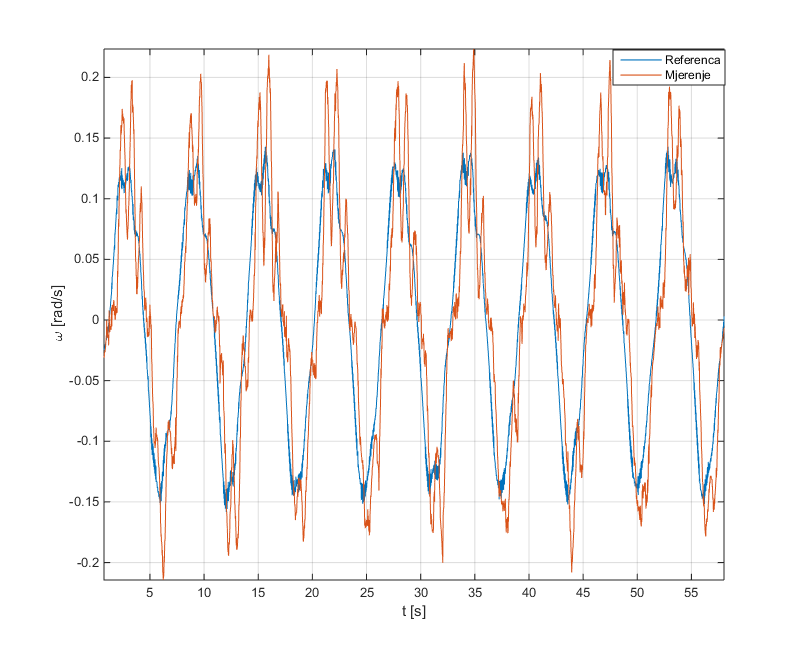
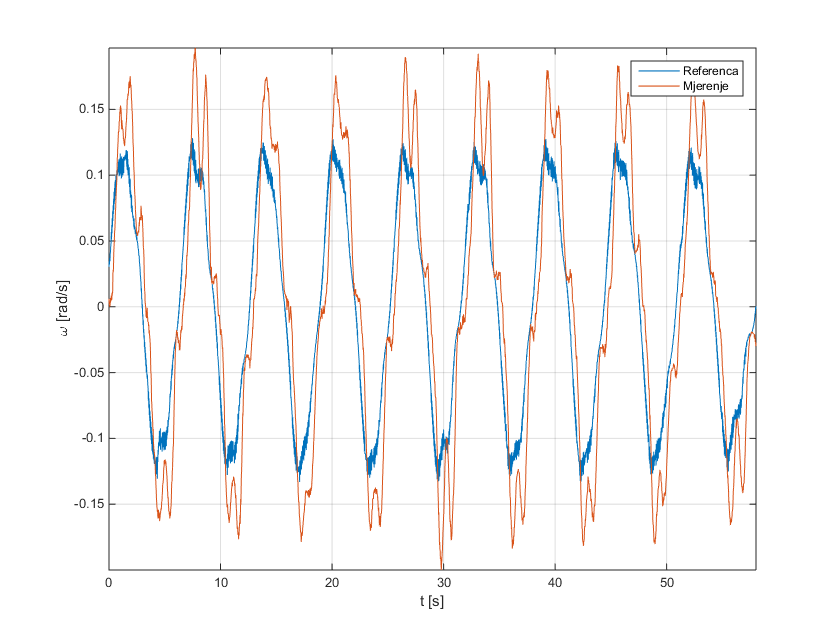
Added new plots, extended comments on plots

diff --git a/Rektor_2017/Exp/Exp.tex b/Rektor_2017/Exp/Exp.tex
@@ -167,6 +167,8 @@
 \newcolumntype{R}[1]{>{\raggedleft\let\newline\\\arraybackslash\hspace{0pt}}m{#1}}
 
 
+
+
 \begin{document}
 %TODO Ubaciti sliku letjelice na gimbalu na početak poglavlja 
 U svrhu verifikacije sustava upravljanja letjelica je postavljena na stalak s jednom osi rotacije (eng. \textit{single axis gimbal}). Os rotacije stalka postavljena je što bliže centru mase letjelice kako bi se osiguralo ponašanje što sličnije letu.
@@ -190,6 +192,9 @@ Nakon odabira parametara regulatora provedena su tri eksperimenta prikazana u na
 
 \subsection{Eksperiment odskočne pobude}
 
+U ovom eksperimentu zadana je odskočna referenca kuta iznosa $\theta_{ref}=0.15 \hspace{5 pt} rad$ u pozitivnom i negativnom smjeru. Snimljeni odziv kuta letjelice prikazan je na Slici \ref{fig:step_kut_odziv}, a odziv kutne brzine prikazan je na Slici \ref{fig:step_brzina_odziv}. Vrijeme porasta
+odziva na skokovitu promjenu reference iznosi $0.4155$ sekundi dok letjelica dostiže postavljenu vrijednost za $3.6384$ sekunde. Nadvišenje odziva na skokovitu pobudu iznosi $2.26 \hspace{2 pt} \%$ Slika \ref{fig:step_brzina_odziv} prikazuje impulsne promjene kutne brzine što potvrđuje brzinu odziva na skokovitu pobudu. Reakcija letjelice na promjenu reference je zadovoljavajuće brza za potrebe stabilnog leta. 
+
 \begin{figure}[H]
 	\centering
 	\begin{subfigure}{.5\textwidth}
@@ -207,13 +212,11 @@ Nakon odabira parametara regulatora provedena su tri eksperimenta prikazana u na
 	
 	\caption{Prikaz kuta i kutne brzine u eksperimentu odskočne pobude}
 	\label{fig:step_odzivi}
-\end{figure} %TODO: Snimi nove odzive na step sa rosbagom ovo baš i ne valja
-U ovom eksperimentu zadana je odskočna referenca kuta iznosa $\theta_{ref}=0.15 \hspace{5 pt} rad$. Snimljeni odziv kuta letjelice prikazan je slikom
-\ref{fig:step_kut_odziv}, a odziv kutne brzine prikazan je na slici \ref{fig:step_brzina_odziv}. Vrijeme porasta odziva na skokovitu promjenu reference iznosi $UNESI\_VRIJEME\_PORASTA$ dok letjelica dostiže postavljenu vrijednost u $UNESI\_SETTLING\_TIME$. Reakcija letjelice na promjenu reference je zadovoljavajuće brza za potrebe stabilnog leta.	%TODO: komentirati još odziv kutne brzine
+\end{figure} 
 
 \subsection{Eksperiment sinusne pobude}
 Ovim eksperimentom ispituje se sposobnost praćenja kontinuirano promjenljivog referentnog signala kuta. 
-Zadana je referenca kuta kao sinusni signal amplitude $0.15 \hspace{5 pt} rad$ i frekvencije $FREKVENCIJA$ te su snimljeni odzivi kuta i kutne brzine letjelice prikazani na slici \ref{fig:sinus_odzivi}.
+Zadana je referenca kuta kao sinusni signal amplitude $0.15 \hspace{5 pt} rad$ i perioda $6.5$ sekundi. Snimljeni odzivi kuta i kutne brzine letjelice prikazani na slici \ref{fig:sinus_odzivi}.
 \begin{figure}[H]
 	\centering
 	\begin{subfigure}{.5\textwidth}
@@ -233,13 +236,12 @@ Zadana je referenca kuta kao sinusni signal amplitude $0.15 \hspace{5 pt} rad$ i
 	\label{fig:sinus_odzivi}
 \end{figure}
 
-\noindent Iz prikazanih odziva vidljivo je da letjelica dobro prati stalno promjenjivu referencu kuta. Signal odziva kuta blago je prigušen i fazno zaostaje za 
-referentni signalom. %TODO izračunati pomak faze i prigušenje amplitude
+\noindent Iz prikazanih odziva vidljivo je da letjelica dobro prati stalno promjenjivu referencu kuta. Signal odziva kuta blago je prigušen i fazno zaostaje $31.6^{\circ}$ za referentni signalom.
 
 \subsection{Eksperiment upravljanja kutom uz uključene rotore}
 Prethodnim eksperimentima ispitano je ponašanje sustava upravljanja uz isključene rotore. Uspješnim izvođenjem prethodnih eksperimenata, ispitano je ponašanje sustava upravljanja uz potisak koji stvara rotacija četiri rotora letjelice. \newline
 Eksperiment je izveden tako da operater pomoću upravljačke konzole uključi rotore i podigne njihovu brzinu rotacije. Pri tome se prati uspješnost stabilizacije letjelice na poremećaj koji stvara potisak rotora. Zatim operater daje referencu kuta poniranja koja se sastoji od sekvence pozitivnog i negativnog pomaka iznosa $0.15 \hspace{5pt} rad$. Slika \ref{fig:rot_odzivi} prikazuje odziv kuta i kutne brzine uz opisanu referencu kuta.
-Iz snimljenih odziva vidljivo je da sustav upravljanja zadržava stabilnost uz uključene rotore, ali je utjecaj rotora prisutan u odzivu. 
+Iz snimljenih odziva vidljivo je da sustav upravljanja zadržava stabilnost uz uključene rotore, ali je utjecaj rotora prisutan u odzivu. Brzina odziva na skokovitu promjenu reference nije narušena utjecajem rotora.
 
 \begin{figure}[H]
 	\centering
